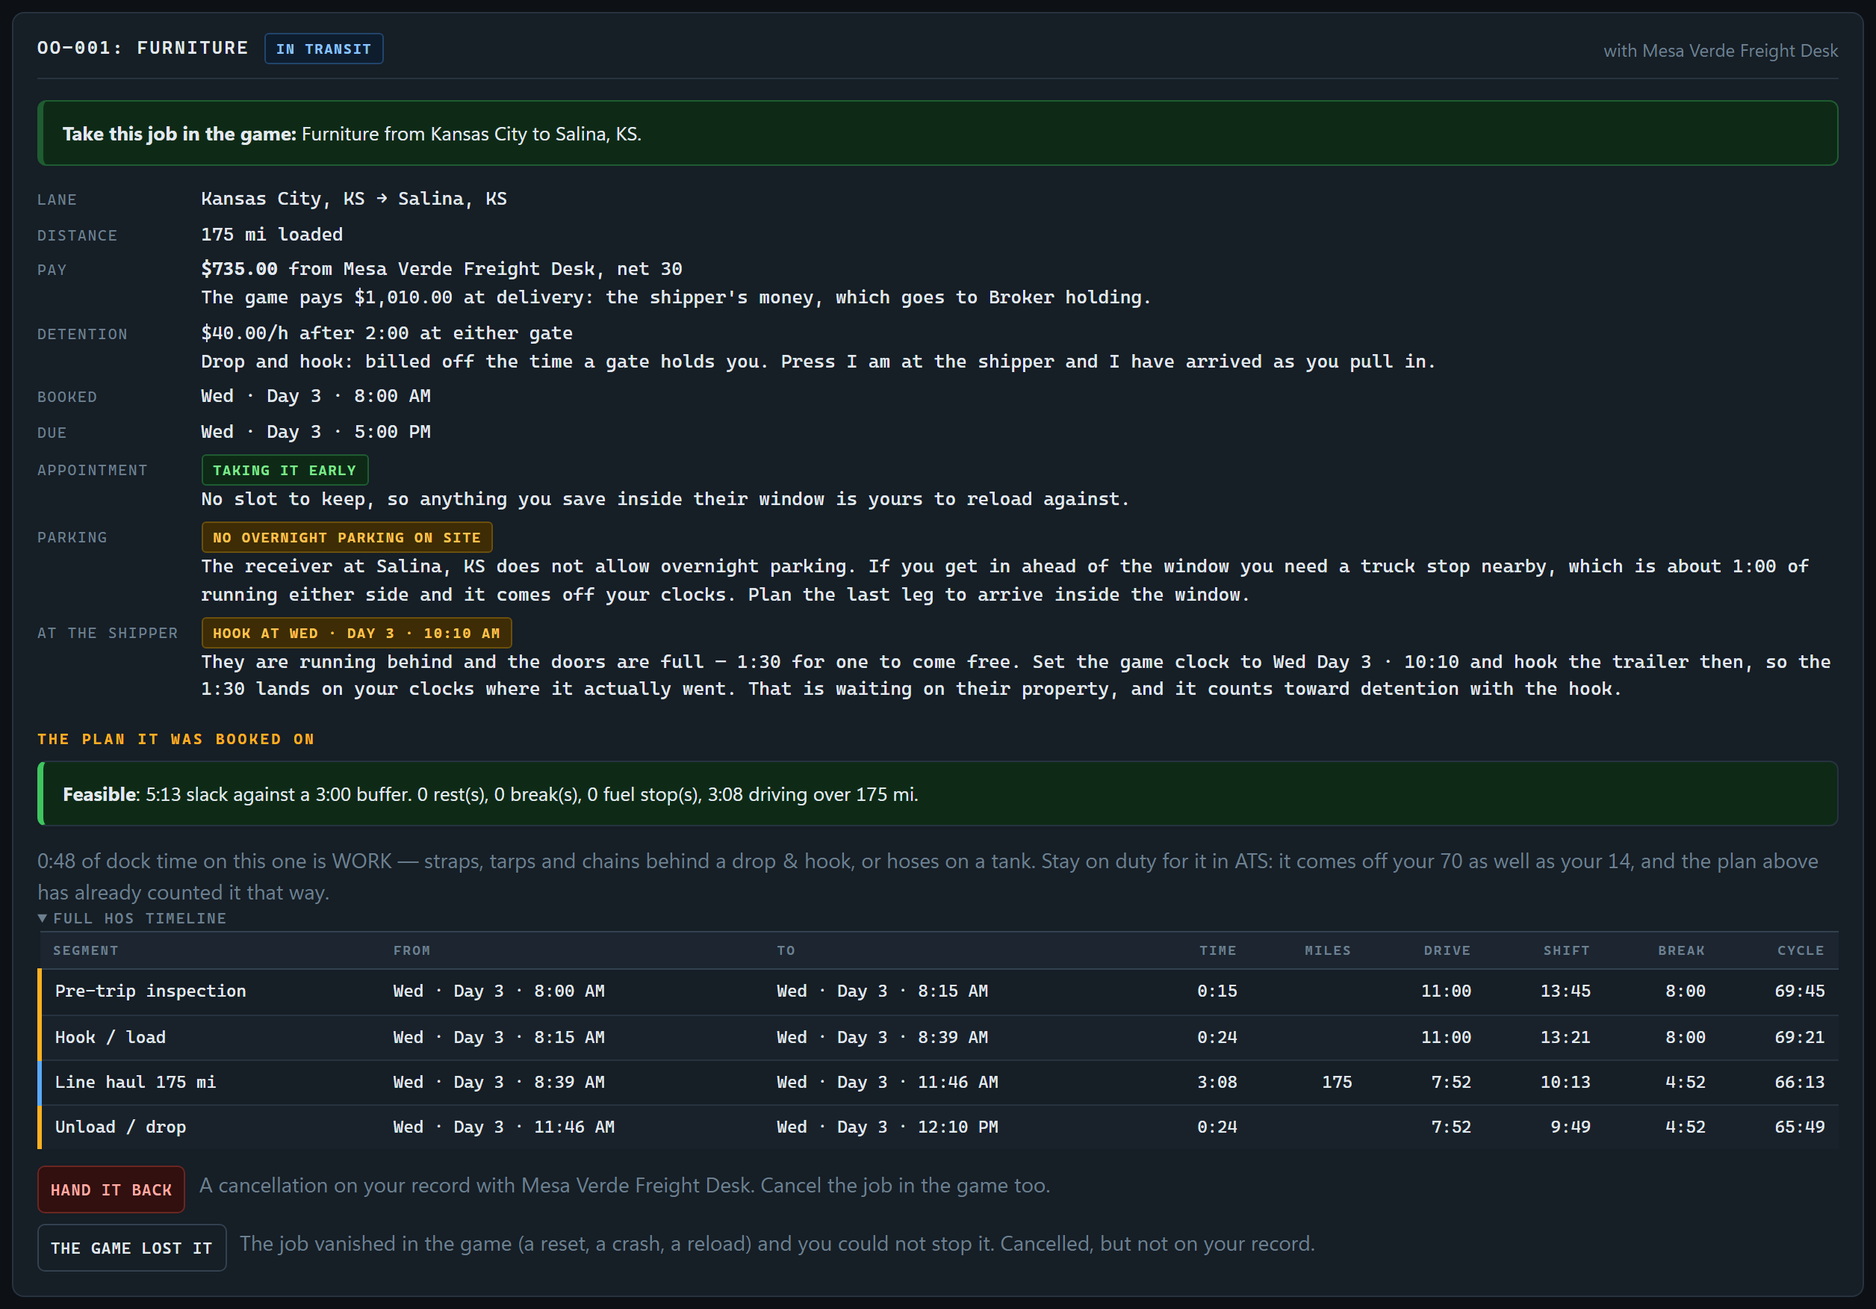
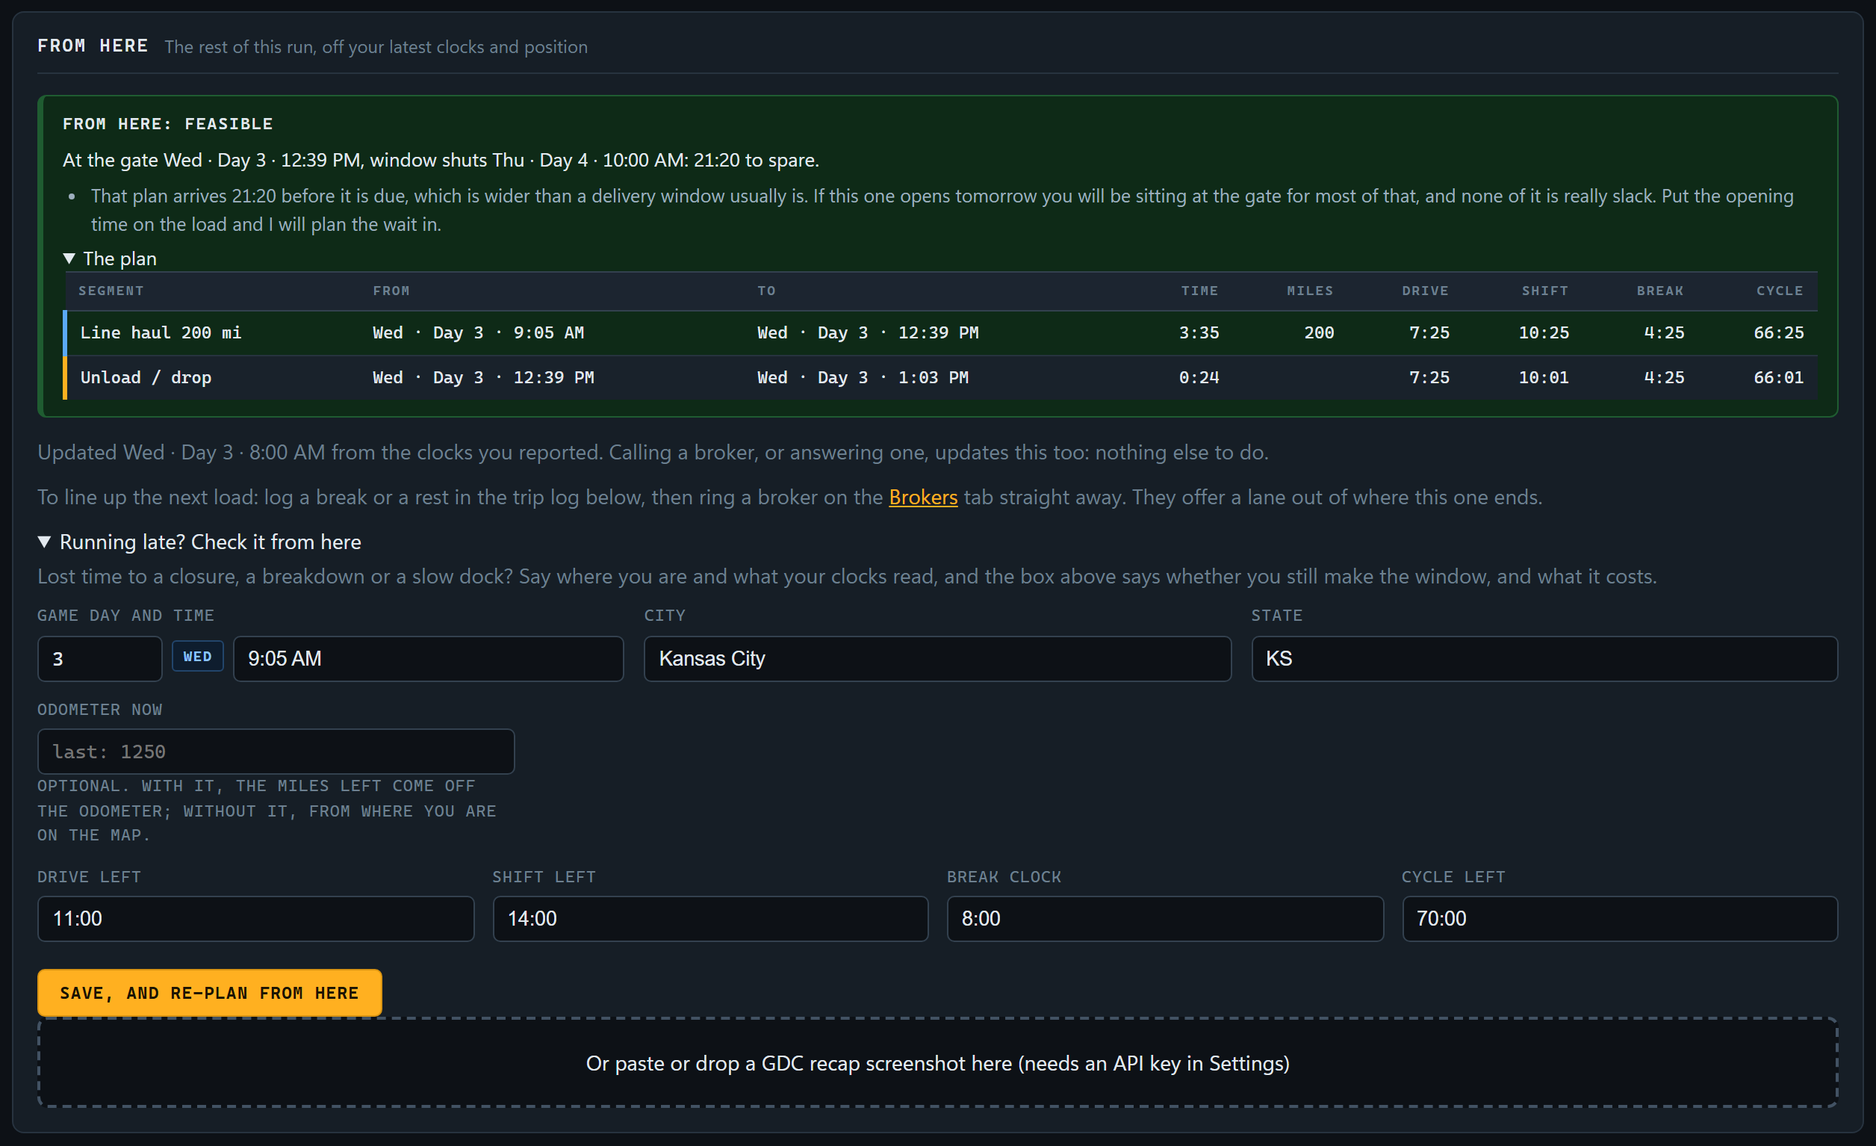
Owner-Operator 0.9: plan the rest of the run from where you are; clearer From here
- Miles left come off the odometer where one was read since pulling out,
  and otherwise from the reported position as a share of the run by the map
  (the game's roads are shorter than the real-world map); never the whole
  run again from halfway. Reported from play: resting in Tulsa on Dallas to
  St. Louis.
- A lane's pickup waits for a 10-hour reset where the run leaves under 2 h
  of drive or 3 h of shift at empty, as a low cycle already waits for a 34
- The clocks prompt on a call mid-run also takes where and when you are,
  and the odometer; "Report your clocks" takes an optional odometer
- From here says where its clocks came from (a call to a named broker, a
  close-out, a screenshot); the drawer is "Running late? Check it from here"
- Hint and manual: log a break or a rest, then call straight away
- New suite oo-reach

diff --git a/OwnerOperator/ui/app.js b/OwnerOperator/ui/app.js
@@ -125,18 +125,33 @@ document.addEventListener('click', (e) => {
 });
 document.addEventListener('keydown', (e) => { if (e.key === 'Escape') closeModal(); });
 
-/** Asking for the clocks before a call: a broker plans the next load off how much time you have. */
+/**
+ * Asking for the clocks before a call: a broker plans the next load off how much time you have. On the road, where and
+ * when you are as well, because the rest of this run is planned from there: how far is left, and what it costs your clocks.
+ */
 function clocksPrompt(title, sub, go) {
+  const onRun = !!S.booking;
   modal(`<div class="panel-head"><h2>${esc(title)}</h2><div class="spacer"></div>
       <button class="btn tiny ghost" data-close>Cancel</button></div>
-    <p>${esc(sub)}</p>
+    <p>${esc(sub)}${onRun ? ' On a run, where and when you are as well: the rest of this one is planned from there.' : ''}</p>
+    ${onRun ? `<div class="grid4">${dayTimeInput('pc-time', S.status.gameTime, 'Game day and time')}
+      <label>City<input id="pc-city" value="${esc(S.status.city)}"></label>
+      <label>State<input id="pc-state" class="up" maxlength="2" value="${esc(S.status.state)}"></label>
+      <label>Odometer now<input id="pc-odo" type="number" placeholder="optional, last: ${S.status.odometer}"></label></div>` : ''}
     ${clockFields('pc', S.hos, true)}
     <p class="hint">Off your HOS display, as it reads now. Telling a broker your hours is how they know how far they can plan you.</p>
     <div class="row-actions"><div class="spacer"></div><button class="btn primary" id="pc-go">Tell them</button></div>`);
-  $('pc-drive').focus();
+  ($('pc-city') || $('pc-drive')).focus();
   $('pc-go').onclick = async () => {
-    try { const clocks = readClockFields('pc', true); closeModal(); await go(clocks); }
-    catch (e) { toast(e.message, 'bad'); }
+    try {
+      const clocks = readClockFields('pc', true);
+      if (onRun) {
+        const at = readWhen('pc-time');
+        await api('/status', 'POST', { locationCity: $('pc-city').value, locationState: $('pc-state').value, day: at.day, time: at.time,
+          odometer: Number($('pc-odo').value) || null });
+      }
+      closeModal(); await go(clocks);
+    } catch (e) { toast(e.message, 'bad'); }
   };
 }
 
@@ -629,6 +644,15 @@ function callModal(call, fallback) {
       ${call.position ? `<span>place in line <b>#${call.position}</b></span>` : ''}</div>` : ''}`);
 }
 
+/** Where the clocks the plan runs on came from: a call, a close-out, a screenshot, or typed in. */
+function clocksFrom(h) {
+  const when = gt(h.asOf);
+  if (h.carriedForwardFrom) return `Updated ${when} from your close-out of ${h.carriedForwardFrom}`;
+  if ((h.source || '').startsWith('Told ')) return `Updated ${when} from your call: you told ${h.source.slice(5)} your clocks and where you were`;
+  if (h.source === 'GDC Companion') return `Updated ${when} from a GDC recap screenshot`;
+  return `Updated ${when} from the clocks you reported`;
+}
+
 function fromHereView(f) {
   const cls = f.verdict === 'Feasible' ? 'ok' : f.verdict === 'Tight' ? 'warn' : 'bad';
   const msgs = [...(f.blockers || []), ...(f.warnings || [])];
@@ -828,16 +852,20 @@ function activeView() {
       <span class="hint">The job vanished in the game (a reset, a crash, a reload) and you could not stop it. Cancelled, but not on your record.</span></div>
   </div>
 
-  <div class="panel">
-    <div class="panel-head"><h2>From here</h2>
-      <span class="sub">${S.hos.asOf ? `Off your clocks as of ${esc(gt(S.hos.asOf))}` : 'Off your clocks'} and where you are</span></div>
-    ${fh ? fromHereView(fh) : `<p class="hint">${t.arrivedGameTime ? 'At the receiver: nothing left to plan.' : 'Report your clocks and where you are to plan the rest of the run.'}</p>`}
-    ${!S.lane && t.loadedReported ? `<p class="hint">On a break or a rest? Ring a broker on the <a href="#" class="lnk" data-goto="brokers">Brokers</a> tab
-      to line up the next load: they offer a lane out of where this one ends.</p>` : ''}
-    <details ${fh && fh.verdict !== 'Feasible' ? 'open' : ''}><summary>Report your clocks and where you are</summary>
+  <div class="panel" id="fromhere">
+    <div class="panel-head"><h2>From here</h2><span class="sub">The rest of this run, off your latest clocks and position</span></div>
+    ${fh ? fromHereView(fh) : `<p class="hint">${t.arrivedGameTime ? 'At the receiver: nothing left to plan.' : 'Nothing to plan from yet: your clocks are needed.'}</p>`}
+    ${S.hos.asOf ? `<p class="hint">${esc(clocksFrom(S.hos))}. Calling a broker, or answering one, updates this too: nothing else to do.</p>` : ''}
+    ${!S.lane && t.loadedReported ? `<p class="hint">To line up the next load: log a break or a rest in the trip log below, then ring a broker on the
+      <a href="#" class="lnk" data-goto="brokers">Brokers</a> tab straight away. They offer a lane out of where this one ends.</p>` : ''}
+    <details ${fh && fh.verdict !== 'Feasible' ? 'open' : ''}><summary>Running late? Check it from here</summary>
+      <p class="hint">Lost time to a closure, a breakdown or a slow dock? Say where you are and what your clocks read, and the box above
+        says whether you still make the window, and what it costs.</p>
       <div class="grid3">${dayTimeInput('ck-time', S.status.gameTime, 'Game day and time')}
         <label>City<input id="ck-city" value="${esc(S.status.city)}"></label>
         <label>State<input id="ck-state" class="up" maxlength="2" value="${esc(S.status.state)}"></label></div>
+      <label style="max-width:20rem">Odometer now<input id="ck-odo" type="number" placeholder="last: ${S.status.odometer}">
+        <span class="hint">Optional. With it, the miles left come off the odometer; without it, from where you are on the map.</span></label>
       ${clockFields('ck', S.hos)}
       <div class="row-actions"><button class="btn primary" id="ck-save">Save, and re-plan from here</button></div>
       <div class="dropzone" id="ck-drop" tabindex="0">Or paste or drop a GDC recap screenshot here${S.settings.hasApiKey ? '' : ' (needs an API key in Settings)'}</div>
@@ -1100,7 +1128,8 @@ function wireActive() {
     try {
       const at = readWhen('ck-time');
       const clocks = readClockFields('ck', true);
-      await api('/status', 'POST', { locationCity: $('ck-city').value, locationState: $('ck-state').value, day: at.day, time: at.time });
+      await api('/status', 'POST', { locationCity: $('ck-city').value, locationState: $('ck-state').value, day: at.day, time: at.time,
+        odometer: Number($('ck-odo').value) || null });
       S = await api('/hos', 'POST', clocks);
       toast('Clocks and position saved.'); render();
     } catch (e) { toast(e.message, 'bad'); }

diff --git a/docs/owner-operator/manual.html b/docs/owner-operator/manual.html
@@ -523,8 +523,14 @@
     <tr><td>Parking, their hours</td><td>Whether the receiver lets you sit on their property, and a site's working day.</td></tr>
   </table>
   <p>Under it: <b>the plan it was booked on</b>, with its full hours-of-service timeline, and <b>From here</b>, the same plan
-    worked again off your latest clocks and position. Open <b>Report your clocks and where you are</b>, type them (or paste a GDC
-    recap screenshot, with an AI key), and press <span class="btn">Save, and re-plan from here</span>.</p>
+    worked again off your latest clocks and position. It says where they came from: usually your last call to a broker, which
+    re-plans the run as it goes, so there is nothing else to do. Lost time to a closure, a breakdown or a slow dock and want to
+    know if you still make it? Open <b>Running late? Check it from here</b>, type where you are and your clocks (or paste a
+    GDC recap screenshot, with an AI key), and press <span class="btn">Save, and re-plan from here</span>.</p>
+  <p>How far is left comes off the <b>odometer</b> if you give it. If you do not, it comes from where you said you are: resting
+    in Tulsa on a run from Dallas to St. Louis, the plan runs from Tulsa, with the share of the run still ahead of you. From
+    there it works out when you reach the receiver, the rests on the way, and what your drive, shift and cycle will be when
+    you are empty. That is what a broker plans your next load on.</p>
   <figure><img src="img/active.png"><figcaption>The top of the Active Load tab for a fresh booking: the job to take in the game, the
     pay, the window and the plan it was booked on.</figcaption></figure>
 
@@ -614,6 +620,8 @@
     <li>The pickup is where your current run ends.</li>
     <li>The band never goes past your Long Distance limit.</li>
     <li>If your cycle will be under 11 hours when you are empty, the pickup is after a 34-hour restart.</li>
+    <li>If the run leaves you with under 2 hours of driving or 3 of shift when you are empty, too little to start another load,
+      the pickup is after a 10-hour reset.</li>
     <li>When home is due within five days, the lane heads home.</li>
   </ul>
 
@@ -623,9 +631,10 @@
     that broker.</p>
   <figure><img src="img/ringing.png"></figure>
   <p><span class="btn">Answer</span> asks for your clocks first: drive, shift, break and cycle left, as the HOS display shows
-    them. Telling a broker your hours is how they know how far they can plan you, and the lane's pickup is worked again off
-    them: answer with a full cycle on a lane planned around a restart, and the pickup comes forward. Then the call opens on the
-    Brokers tab. <span class="btn">Let it ring</span> lets the lane go.</p>
+    them. On a run it asks where and when you are too, and the odometer if you have it. Telling a broker your hours and your
+    position is how they know how far they can plan you: the rest of the run is planned from there, and the lane's pickup is
+    worked again off it. Answer with a full cycle on a lane planned around a restart, and the pickup comes forward. Then the
+    call opens on the Brokers tab. <span class="btn">Let it ring</span> lets the lane go.</p>
   <div class="rule"><h4>A call is never missed</h4>
     <p>The phone only rings when you report something to the app, such as pulling out loaded, and a ringing call
       <b>waits</b> until you answer it or let it ring. While it waits, the <b>Phone</b> tile in the top bar says
@@ -638,8 +647,9 @@
 
   <h3>Outbound: ringing round</h3>
   <p>On a run, you can call a broker yourself, but <b>only from a break or a rest</b>: not from behind the wheel. Log the
-    break first, then press <span class="btn">Call</span> and tell them your clocks. The broker offers a lane out of where
-    this run ends, planned off them. It is based on the lane, not on any board.</p>
+    break in the trip log first (your last entry has to be the break or the rest: log fuel or a note after it and you log the
+    break again), or call while you are at a dock: at the shipper before you pull out, or at the receiver. Then press <span class="btn">Call</span> and tell them your clocks and where you are. The broker offers a lane
+    out of where this run ends, planned off them. It is based on the lane, not on any board.</p>
 
   <h3>At the pickup</h3>
   <figure><img src="img/lane.png"><figcaption>The booked lane, waiting for its pickup.</figcaption></figure>
@@ -893,6 +903,7 @@
     <tr><td>Answering a broker</td><td>With your clocks; the lane is planned again off them</td></tr>
     <tr><td>Appointment grace</td><td>2 hours past a booked slot before it counts as late</td></tr>
     <tr><td>Restart before a lane</td><td>When the cycle will be under 11 h at empty: 34 h first</td></tr>
+    <tr><td>Reset before a lane</td><td>When drive will be under 2 h or shift under 3 h at empty: 10 h first</td></tr>
     <tr><td>Home life</td><td>Starts 80; &minus;2/day out, &minus;5 past the promise, +10/day home</td></tr>
     <tr><td>Home calls</td><td>Below 40</td></tr>
     <tr><td>Hitting bottom</td><td>At 0: home for 7 days, no bookings</td></tr>

diff --git a/OwnerOperator/Lanes.cs b/OwnerOperator/Lanes.cs
@@ -224,10 +224,20 @@ public static class Lanes
         return $"With those clocks, call it from {GameClock.Pretty(lane.PickupFromGameTime)} at {lane.PickupCity}. Same rate.";
     }
 
-    /// <summary>When the lane's pickup window opens and shuts: after the run empties, a restart where the cycle will be low, and the deadhead.</summary>
+    /// <summary>Under these, the day is spent at empty: too little drive or shift left to load and run another, so a reset comes first.</summary>
+    public const double DriveToStartHours = 2, ShiftToStartHours = 3;
+
+    /// <summary>
+    /// When the lane's pickup window opens and shuts: after the run empties, then a 34 where the cycle will be low, or a
+    /// 10-hour reset where the day's drive or shift will be nearly spent, and the deadhead. Reported from play: a pickup
+    /// an hour after empty, offered to a driver who would arrive with half an hour of driving left.
+    /// </summary>
     private static (DateTime From, DateTime To) Window(OoCareer c, Trip trip, ReachInfo reach)
     {
-        var restart = reach.CycleAfter < 11 ? c.Game.Settings.Hos.CycleRestartHours : 0;
+        var hos = c.Game.Settings.Hos;
+        var restart = reach.CycleAfter < 11 ? hos.CycleRestartHours
+            : reach.DriveAfter < DriveToStartHours || reach.ShiftAfter < ShiftToStartHours ? hos.OffDutyReset
+            : 0;
         var deadhead = Geo.MilesBetween(trip.DestCity, trip.DestState, reach.Pickup.City, reach.Pickup.State) ?? 0;
         var opens = reach.Empty.AddHours(restart + deadhead / 45.0 + 1);
         return (opens, opens.AddHours(8));
@@ -239,7 +249,8 @@ public static class Lanes
     }
 
     /// <summary>Where the truck will be empty and when, and somewhere discovered to pick up near it.</summary>
-    public record ReachInfo(DateTime Empty, double Hours, double CycleAfter, (string City, string State) Pickup);
+    public record ReachInfo(DateTime Empty, double Hours, double CycleAfter, (string City, string State) Pickup,
+                            double? DriveAfter = null, double? ShiftAfter = null);
 
     public static ReachInfo? Reach(OoCareer c, Booking k, Trip trip)
     {
@@ -250,7 +261,10 @@ public static class Lanes
                     : string.IsNullOrWhiteSpace(trip.ArrivedGameTime) ? now.AddHours(Math.Max(1, trip.DispatchedMiles / 45.0)) : now.AddHours(trip.UnloadingHours);
         var pickup = PickupNear(c, trip.DestCity, trip.DestState);
         if (pickup == null) return null;
-        return new ReachInfo(empty, (empty - now).TotalHours, plan?.CycleRemainingAfter ?? s.Hos.CycleRemaining, pickup.Value);
+        // The day's clocks as the run leaves them, off the last step of the plan: what the next load starts on.
+        var last = plan?.Timeline.LastOrDefault();
+        return new ReachInfo(empty, (empty - now).TotalHours, plan?.CycleRemainingAfter ?? s.Hos.CycleRemaining, pickup.Value,
+                             last?.DriveRemainingAfter, last?.ShiftRemainingAfter);
     }
 
     /// <summary>

diff --git a/OwnerOperator/Run.cs b/OwnerOperator/Run.cs
@@ -192,8 +192,7 @@ public static class Run
 
         var loaded = trip.LoadedReported || trip.Events.Any(e => e.Kind == "EndLoad");
         var started = loaded || !string.IsNullOrWhiteSpace(trip.ShipperArrivedGameTime);
-        var driven = loaded && trip.StartOdometer > 0 ? Math.Max(0, s.Status.AtsOdometer - trip.StartOdometer) : 0;
-        var leftLoaded = Math.Max(0, trip.DispatchedMiles - driven);
+        var leftLoaded = MilesLeft(c, trip, loaded);
         var toShipper = !started && Geo.MilesBetween(s.Status.LocationCity, s.Status.LocationState, trip.OriginCity, trip.OriginState) is { } d
                         && !s.Status.LocationCity.Equals(trip.OriginCity, StringComparison.OrdinalIgnoreCase) ? d : 0;
         var opens = k.Load.AppointmentOpensHours > 0 ? Math.Max(0, (booked.AddHours(k.Load.AppointmentOpensHours) - now).TotalHours) : 0;
@@ -222,6 +221,30 @@ public static class Run
             Label = trip.Cargo,
         };
         return Crossings.PlanBest(s, req, DispatchEngine.AssignedTruck(s));
+    }
+
+    /// <summary>
+    /// The loaded miles still to run. Off the odometer where one has been read since pulling out. Where not, and the truck
+    /// has been reported somewhere other than the shipper, the share of the run still ahead of it by the map: the miles from
+    /// here to the receiver over the miles from the shipper to it, applied to the listing. As a share rather than the map's
+    /// own figure, because the game's roads are shorter than the real-world map (Austin to Beaumont lists under 200 mi).
+    /// Reported from play: resting halfway with clocks and a position reported, and the whole run still planned ahead.
+    /// </summary>
+    public static double MilesLeft(OoCareer c, Trip trip, bool loaded)
+    {
+        var s = c.Game;
+        if (!loaded) return trip.DispatchedMiles;
+        if (trip.StartOdometer > 0 && s.Status.AtsOdometer > trip.StartOdometer)
+            return Math.Max(0, trip.DispatchedMiles - (s.Status.AtsOdometer - trip.StartOdometer));
+        var here = (City: s.Status.LocationCity, State: s.Status.LocationState);
+        if (here.City.Equals(trip.OriginCity, StringComparison.OrdinalIgnoreCase) && here.State.Equals(trip.OriginState, StringComparison.OrdinalIgnoreCase))
+            return trip.DispatchedMiles;
+        if (here.City.Equals(trip.DestCity, StringComparison.OrdinalIgnoreCase) && here.State.Equals(trip.DestState, StringComparison.OrdinalIgnoreCase))
+            return 0;
+        if (Geo.EstimatedMiles(here.City, here.State, trip.DestCity, trip.DestState) is not { } ahead
+            || Geo.EstimatedMiles(trip.OriginCity, trip.OriginState, trip.DestCity, trip.DestState) is not { } whole || whole <= 0)
+            return trip.DispatchedMiles;
+        return Math.Round(trip.DispatchedMiles * Math.Clamp(ahead / whole, 0, 1), 0);
     }
 
     /// <summary>

diff --git a/OwnerOperator/Program.cs b/OwnerOperator/Program.cs
@@ -253,7 +253,8 @@ app.MapPost("/api/calls", async (CallRequest r, CancellationToken ct) =>
         {
             if (Lanes.PullOver(c) is { } wheel) throw new InvalidOperationException(wheel);
             ApplyClocks(c, r.Clocks ?? throw new InvalidOperationException(
-                "Tell them your clocks: drive, shift, break and cycle left. That is how far they can plan you."), "Told the broker");
+                "Tell them your clocks: drive, shift, break and cycle left. That is how far they can plan you."),
+                $"Told {c.Brokers.FirstOrDefault(b => b.Id == r.BrokerId)?.Name ?? "a broker"}");
         }
         var (call, rep) = Calls.Start(c, r.BrokerId ?? "");
         return (call.Id, rep);
@@ -339,7 +340,8 @@ app.MapPost("/api/calls/{id}/answer", async (string id, AnswerRequest? r, Cancel
         // A broker ringing about the next load wants to know how much time you have: the lane is planned off it.
         if (ringing.Inbound)
             ApplyClocks(c, r?.Clocks ?? throw new InvalidOperationException(
-                "Tell them your clocks: drive, shift, break and cycle left. That is how far they can plan you."), "Told the broker");
+                "Tell them your clocks: drive, shift, break and cycle left. That is how far they can plan you."),
+                $"Told {c.Brokers.FirstOrDefault(b => b.Id == ringing.BrokerId)?.Name ?? "a broker"}");
         var call = Calls.Answer(c, id);
         if (Lanes.Refit(c, call) is { } moved) call.Turns.Add(new CallTurn { Who = "broker", Text = moved });
         return new BrokerReply("offer", call.Turns.Last().Text);
